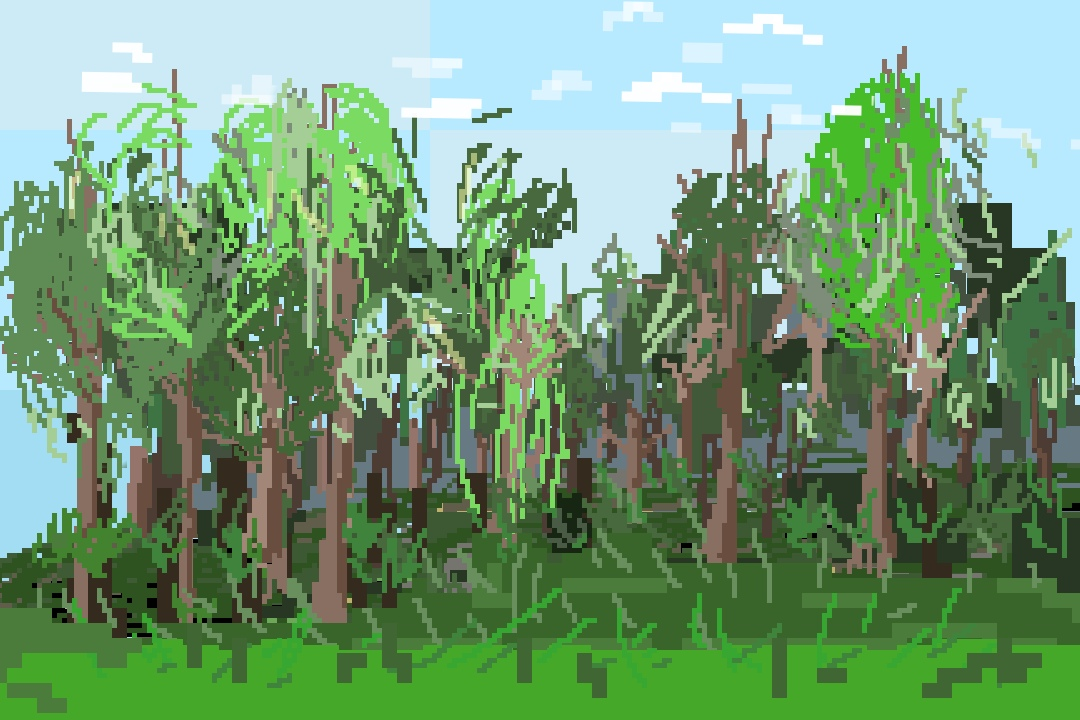
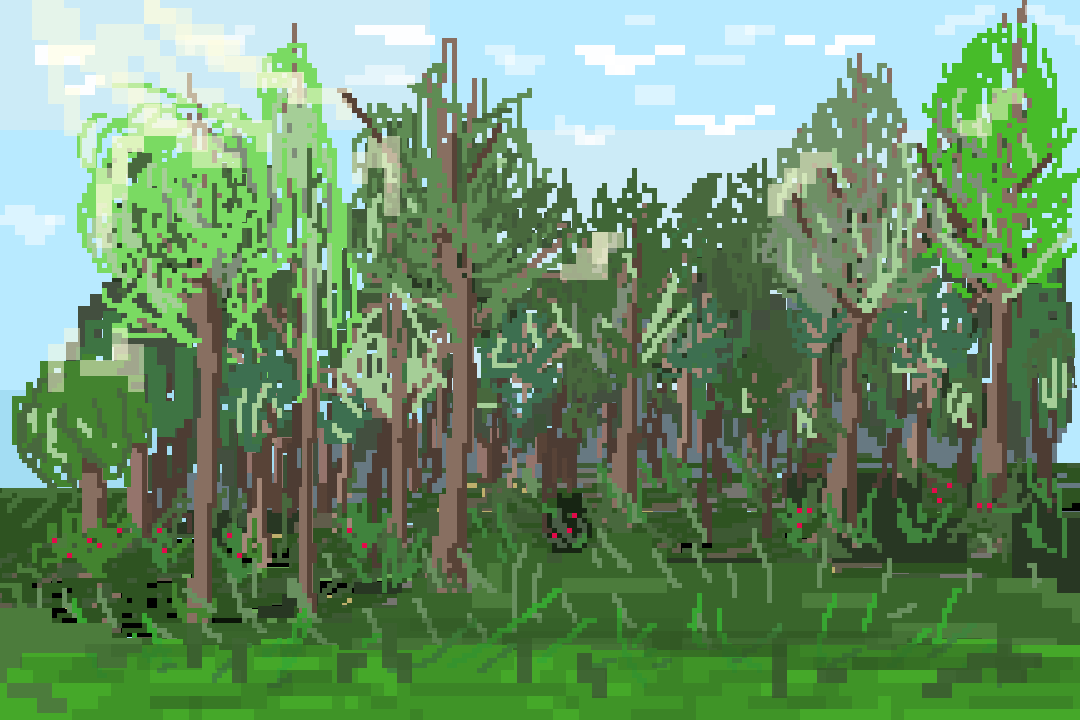
oboje

diff --git a/core/src/com/mygdx/game/screens/StoryScreen.java b/core/src/com/mygdx/game/screens/StoryScreen.java
@@ -1,0 +1,49 @@
+package com.mygdx.game.screens;
+
+import com.badlogic.gdx.ScreenAdapter;
+import com.badlogic.gdx.graphics.Color;
+import com.badlogic.gdx.graphics.g2d.BitmapFont;
+import com.badlogic.gdx.utils.ScreenUtils;
+import com.mygdx.game.GameResources;
+import com.mygdx.game.MyGdxGame;
+import components.ButtonView;
+import components.ImageView;
+import components.MovingBackground;
+import components.TextView;
+
+public class StoryScreen extends ScreenAdapter {
+    MyGdxGame myGdxGame;
+    MovingBackground firstPicture;
+    TextView firstPhrase;
+
+
+    public StoryScreen(MyGdxGame myGdxGame) {
+        this.myGdxGame = myGdxGame;
+        firstPicture = new MovingBackground (GameResources.FIRST_PICTURE);
+        firstPhrase = new TextView(myGdxGame.largeWhiteFont, 5,1080, "This story has started many years ago.\n\n\n\n\n\n\n\n\n\n\n\n\n\n\n\n\n\n\n A lot before these children were born...");
+    }
+
+
+    @Override
+    public void render(float delta) {
+        super.render(delta);
+        draw();
+    }
+    public void draw(){
+
+        myGdxGame.camera.update();
+        myGdxGame.batch.setProjectionMatrix(myGdxGame.camera.combined);
+        ScreenUtils.clear(Color.CLEAR);
+        myGdxGame.batch.begin();
+
+        firstPicture.draw(myGdxGame.batch);
+        firstPhrase.draw(myGdxGame.batch);
+        myGdxGame.batch.end();
+
+    }
+
+    @Override
+    public void dispose() {
+        super.dispose();
+    }
+}

diff --git a/core/src/com/mygdx/game/screens/ScreenMenu.java b/core/src/com/mygdx/game/screens/ScreenMenu.java
@@ -22,7 +22,7 @@ public class ScreenMenu extends ScreenAdapter {
     ButtonView startButtonView;
     ButtonView settingsButtonView;
     ButtonView exitButtonView;
-    MovingBackground settingsBackground;
+    ButtonView storyButtonView;
 
 
     public ScreenMenu(MyGdxGame myGdxGame){
@@ -31,7 +31,9 @@ public class ScreenMenu extends ScreenAdapter {
         float centerX = (GameSettings.SRC_WIDTH * 2)/7  ;
         startButtonView = new ButtonView(centerX, 600, 300, 200, myGdxGame.commonBlackFont, GameResources.BUTTON_PATH, "Start");
         settingsButtonView = new ButtonView(centerX, 400, 300, 200, myGdxGame.commonBlackFont, GameResources.BUTTON_PATH, "Settings");
-        exitButtonView = new ButtonView(centerX, 200, 300, 200, myGdxGame.commonBlackFont, GameResources.BUTTON_PATH, "Exit");
+        exitButtonView = new ButtonView(centerX, 0, 300, 200, myGdxGame.commonBlackFont, GameResources.BUTTON_PATH, "Exit");
+        storyButtonView = new ButtonView(centerX, 200, 300, 200, myGdxGame.commonBlackFont, GameResources.BUTTON_PATH, "What?");
+
 
 
 
@@ -51,6 +53,7 @@ public class ScreenMenu extends ScreenAdapter {
         myGdxGame.batch.begin();
         background.draw(myGdxGame.batch);
         exitButtonView.draw(myGdxGame.batch);
+        storyButtonView.draw(myGdxGame.batch);
         settingsButtonView.draw(myGdxGame.batch);
         startButtonView.draw(myGdxGame.batch);
 
@@ -68,6 +71,8 @@ public class ScreenMenu extends ScreenAdapter {
             }
             if (settingsButtonView.isHit(myGdxGame.touch.x, myGdxGame.touch.y)) {
                 myGdxGame.setScreen(myGdxGame.settingsScreen);
+            }if (storyButtonView.isHit(myGdxGame.touch.x, myGdxGame.touch.y)) {
+                myGdxGame.setScreen(myGdxGame.storyScreen);
             }}
 }
 

diff --git a/core/src/com/mygdx/game/MyGdxGame.java b/core/src/com/mygdx/game/MyGdxGame.java
@@ -16,6 +16,7 @@ import com.badlogic.gdx.utils.ScreenUtils;
 import com.mygdx.game.screens.ScreenGame;
 import com.mygdx.game.screens.ScreenMenu;
 import com.mygdx.game.screens.SettingsScreen;
+import com.mygdx.game.screens.StoryScreen;
 import components.FontBuilder;
 import managers.AudioManager;
 
@@ -26,6 +27,7 @@ public class MyGdxGame extends Game {
 	public ScreenGame screenGame;
 	public ScreenMenu screenMenu;
 	public SettingsScreen settingsScreen;
+	public StoryScreen storyScreen;
 	public BitmapFont commonWhiteFont;
 	public BitmapFont largeWhiteFont;
 	public BitmapFont commonBlackFont;
@@ -54,6 +56,7 @@ public class MyGdxGame extends Game {
 		screenMenu = new ScreenMenu(this);
 		screenGame = new ScreenGame(this);
 		settingsScreen = new SettingsScreen(this);
+		storyScreen = new StoryScreen(this);
 		setScreen(screenMenu);
 	}
 

diff --git a/core/src/com/mygdx/game/GameResources.java b/core/src/com/mygdx/game/GameResources.java
@@ -17,4 +17,6 @@ public class GameResources {
     public static final String GAME_MUSIC_SOUND_PATH = "textures/sounds/TATAKA.mp3";
     public static final String FONT_PATH = "textures/fonts/ofont.ru_Satyr SP.ttf";
 
+    //story:
+    public static final String FIRST_PICTURE = "textures/storyPictures/storyFirst.png";
 }